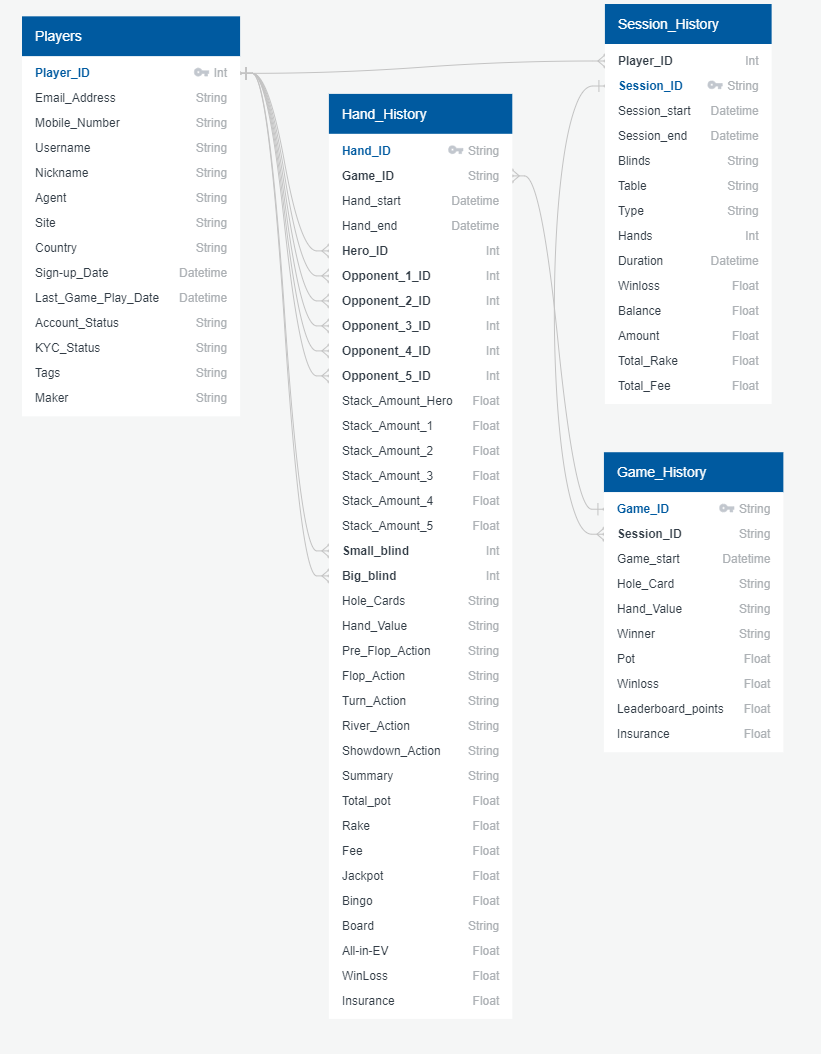
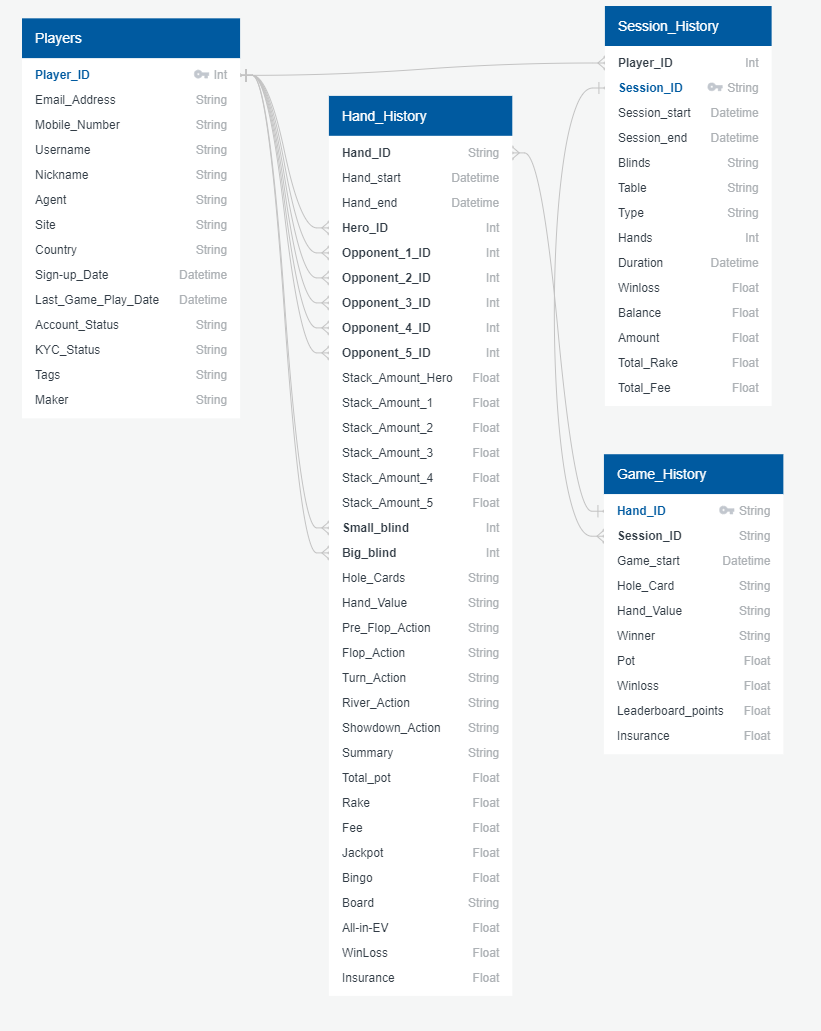
Format

diff --git a/README.md b/README.md
@@ -42,7 +42,7 @@ It was surprising how many mechanics are tied into each game mode: leaderboards,
 
 **d. Were there parts of the experience you found confusing?**
 
-The ticket section is not sorted and could be compressed and simplified. When you finish a game and say play again, it does not specify if you are using tickets, *T$*, *C$* or USD. 
+The [ticket section](https://raw.githubusercontent.com/alecngai/NSUS_BI_Assessment/main/Resources/Tickets.png) is not sorted and could be compressed and simplified. When you finish a game and say play again, it does not specify if you are using tickets, *T$*, *C$* or USD. 
 
 Insurance per game mode is different, meaning it's up to the user to be more informed about its use; however, the game makes it very easy for the player to use insurance without explaining it. There should be a checker to quickly illustrate insurance to users the first time they use it. 
 
@@ -100,7 +100,7 @@ Here is the attached [SQL File](https://github.com/alecngai/NSUS_BI_Assessment/b
 
 ### Game_History as G
 
-- Game_ID  String PK
+- Hand_ID  String PK
 - Session_ID String FK >- S.Session_ID
 - Game_start Datetime
 - Hole_Card String
@@ -108,13 +108,13 @@ Here is the attached [SQL File](https://github.com/alecngai/NSUS_BI_Assessment/b
 - Winner String
 - Pot Float
 - Winloss Float
+- Leaderboard Float
 - Insurance Float
 
 
 ### Hand_History as H
 
-- Hand_ID String PK
-- Game_ID String FK >- G.Game_ID
+- Hand_ID String FK >- G.Hand_ID
 - Hand_start Datetime
 - Hand_end Datetime
 - Hero_ID Int FK >- P.Player_ID
@@ -178,6 +178,7 @@ Hand_Value is the value of the player's hand at the end of the flop. <br />
 Winner assigns a player who won the pot, and this string can be pulled from the Players table using player ID. <br />
 Pot is a float value determining the total amount of money in the pot. <br />
 WinLoss shows the players' win-loss value. <br />
+Leaderboard_points is the amount of points earned towards leaderboard <br />
 Insurance shows insurance won on the hand.  <br />
 
 
